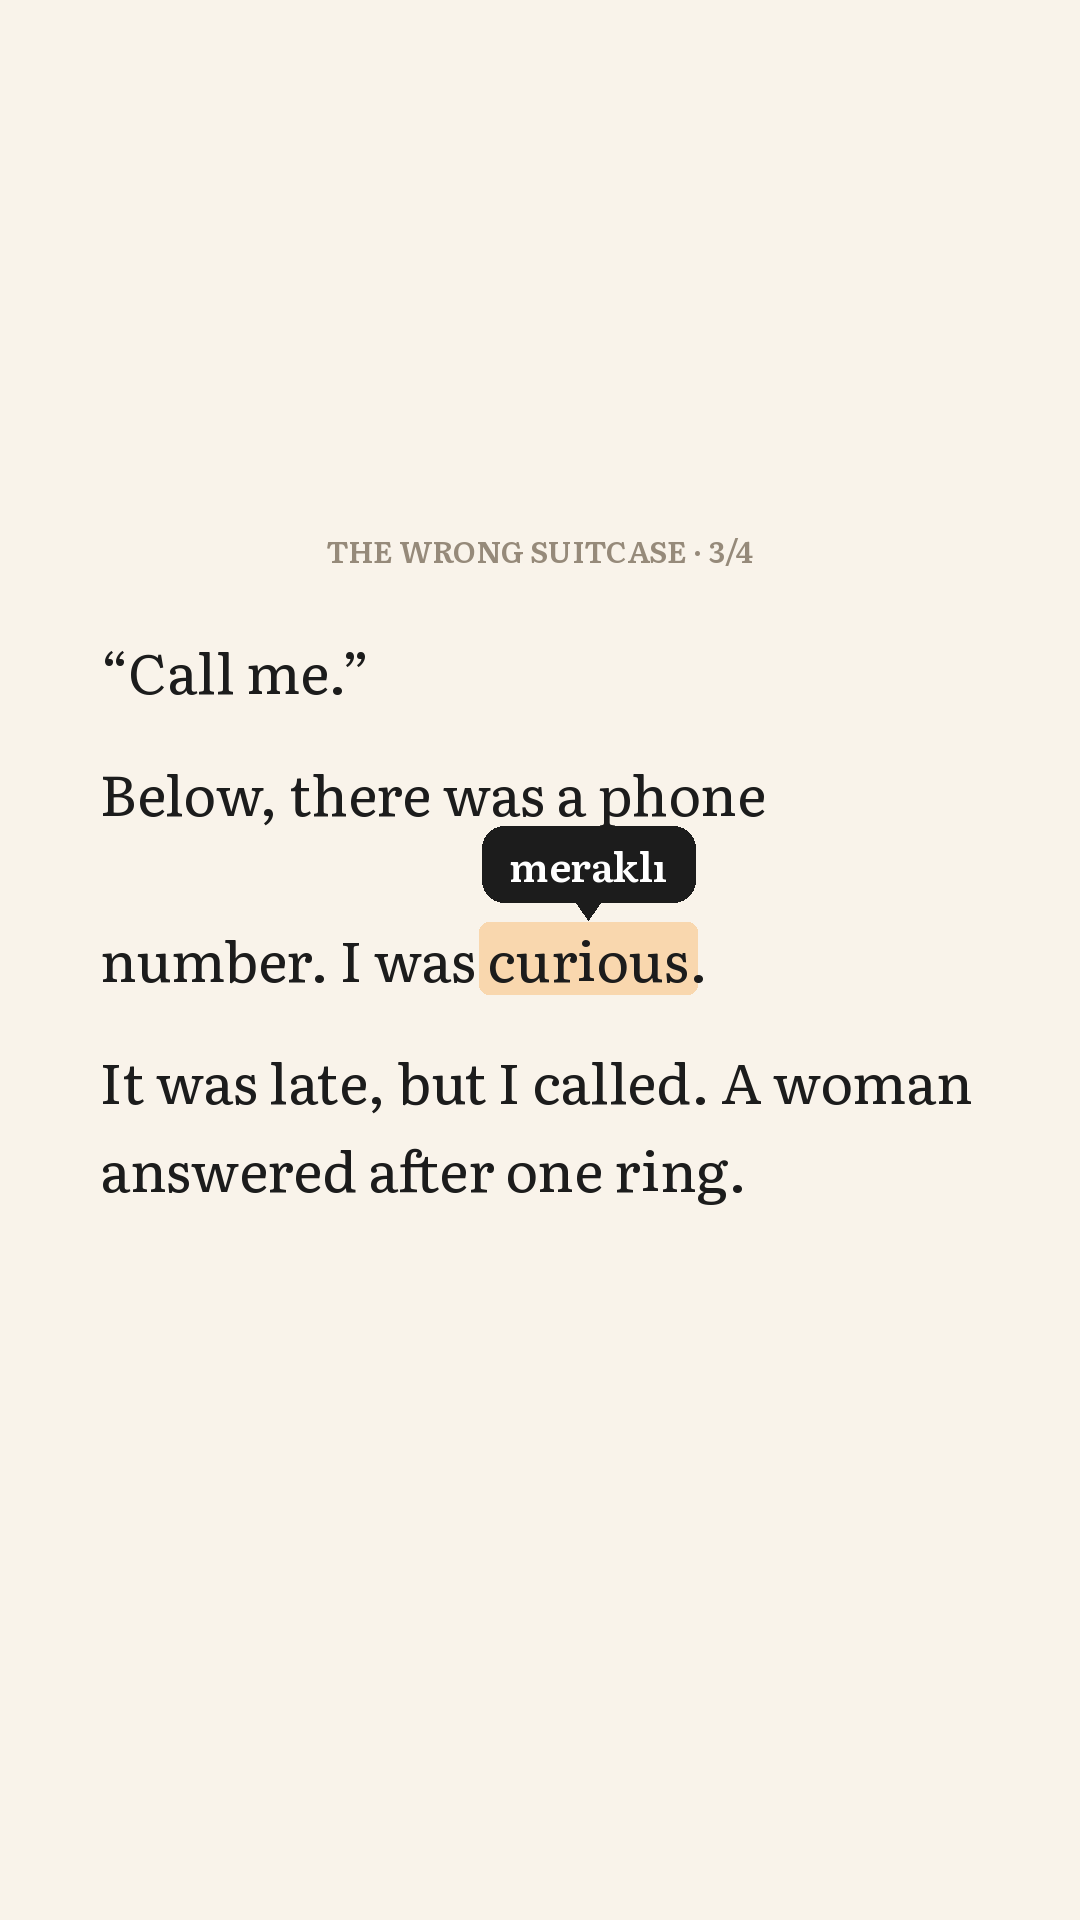
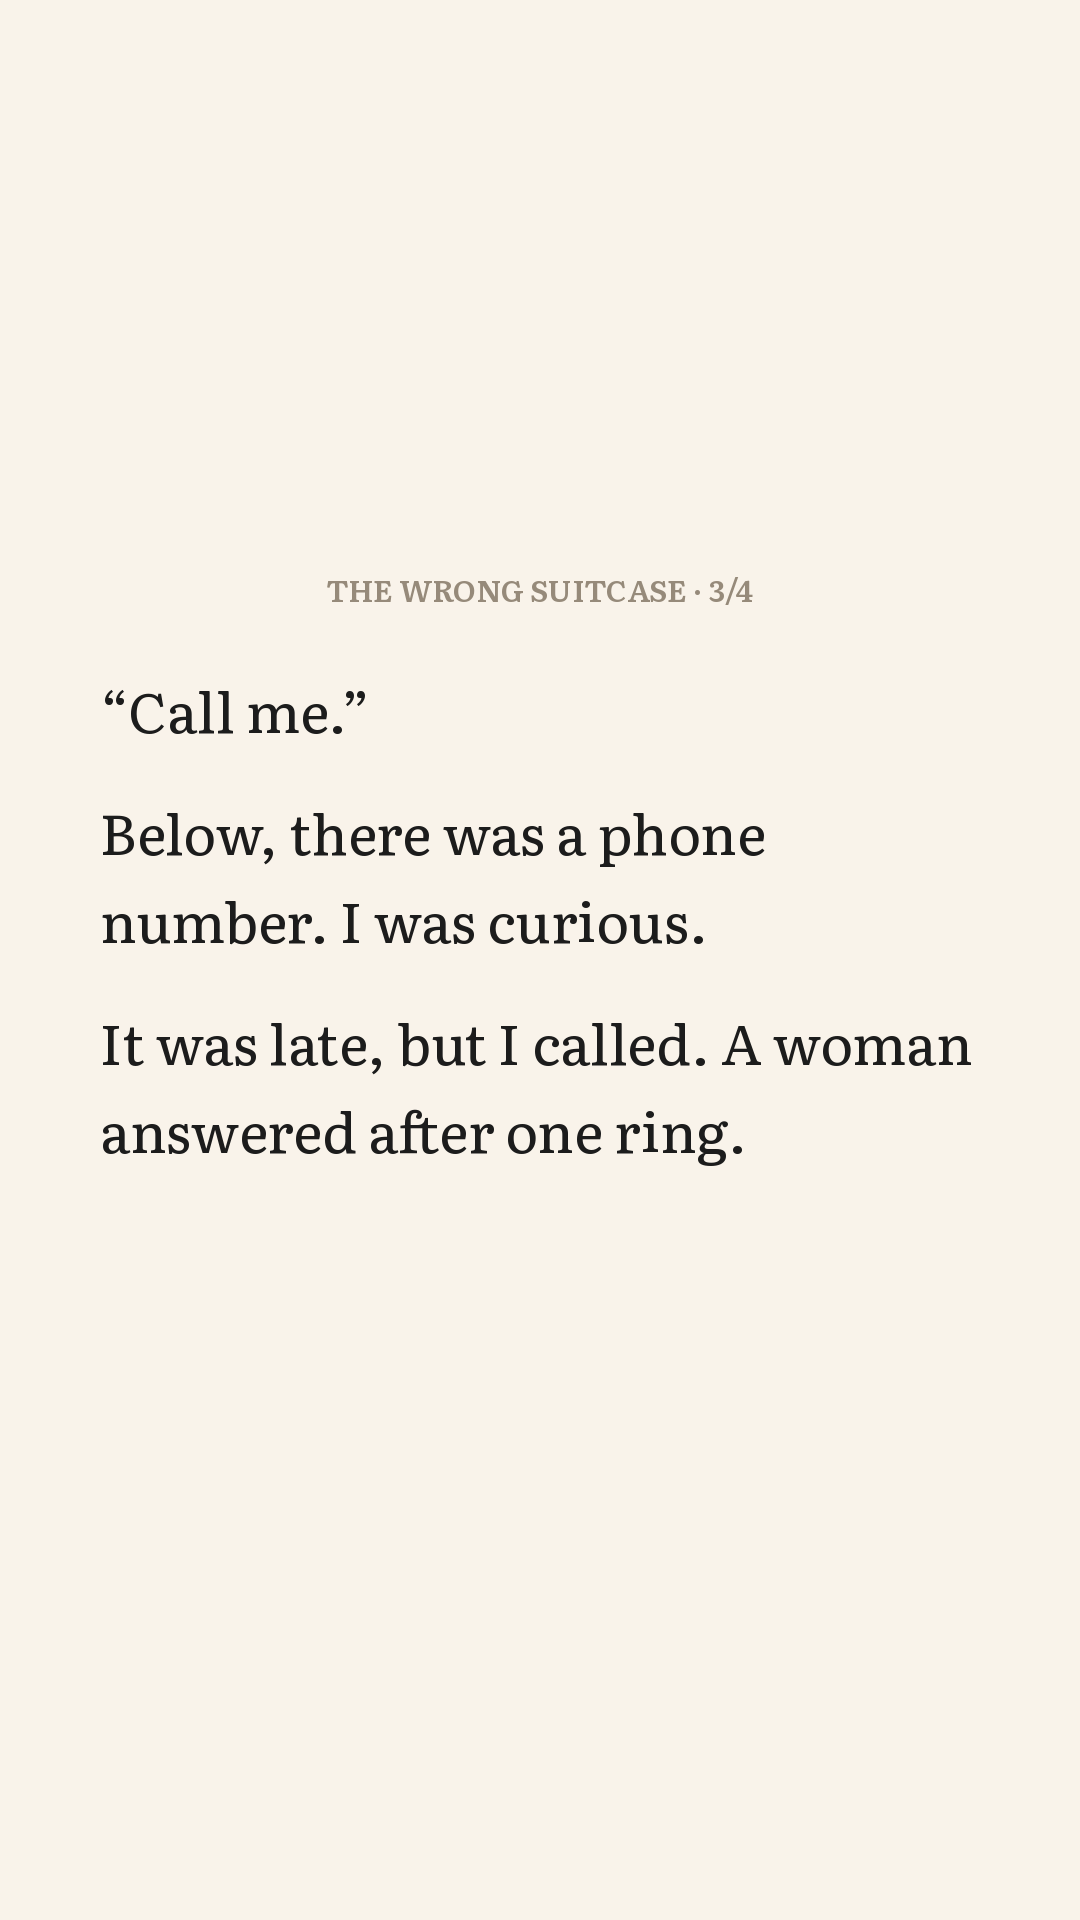
Wrong Suitcase v2: metinde balon yok, kelimeler ayrı karede
Claude-Session: https://claude.ai/code/session_019qtCGA3eorTyVVpn2iHJeU

Changed region(s): [[0.0917, 0.3438, 0.9167, 0.625], [0.3056, 0.2812, 0.7028, 0.3125]]

diff --git a/icerik/2026-11-16_hikaye_wrong-suitcase/yap.py b/icerik/2026-11-16_hikaye_wrong-suitcase/yap.py
@@ -23,12 +23,12 @@ def kare(n,ust,metin,kelime,anlam,hook=None,alt=None,off=None):
     x0=100; step=88
     for para in metin.split('\n'):
         for ln in wrap(d,para,fp,W-2*x0):
-            has=any(kelime in w for w in ln)
+            has=bool(kelime) and any(kelime in w for w in ln)
             if has: y+=78
             x=x0
             for w in ln:
                 ww=d.textlength(w,font=fp)
-                if kelime in w:
+                if kelime and kelime in w:
                     px=d.textlength(w[:w.index(kelime)],font=fp); x+=px; kw=d.textlength(kelime,font=fp); d.rounded_rectangle((x-8,y+4,x+kw+8,y+76),10,fill=PEACH)
                     bw=d.textlength(anlam,font=fb)+56; cx=x+kw/2; bx=min(max(cx-bw/2,60),W-60-bw)
                     d.rounded_rectangle((bx,y-92,bx+bw,y-16),22,fill=INK); d.polygon([(cx-14,y-18),(cx+14,y-18),(cx,y+2)],fill=INK)
@@ -39,14 +39,21 @@ def kare(n,ust,metin,kelime,anlam,hook=None,alt=None,off=None):
     if alt: d.text((W/2,y+50),alt,font=font(40,600),fill=ORANGE,anchor='mm')
     assert y<1620,(n,y); im.save(f'hikaye_{n}.png'); return y
 T='THE WRONG SUITCASE'
-kare(1,T+' · 1/4','I got home from the airport at midnight. I was exhausted.\nI opened my suitcase to find my pajamas.\nBut these were not my clothes.','exhausted','bitkin',hook='Bu hikâyeyi sözlüksüz|bitirebilen var mı?')
-kare(2,T+' · 2/4','Inside, there was a blue dress, a camera, and an old notebook.\nOn the first page, someone wrote:\n“If you find this, please don’t call the airline.”','airline','havayolu şirketi')
-kare(3,T+' · 3/4','“Call me.”\nBelow, there was a phone number. I was curious.\nIt was late, but I called. A woman answered after one ring.','curious','meraklı')
-kare(4,T+' · 4/4','“Finally,” she said. “I have your suitcase too. And I opened it.”\n“We need to talk about the letter in your bag.”\nI didn’t have a letter in my bag.','Finally','nihayet')
+kare(1,T+' · 1/4','I got home from the airport at midnight. I was exhausted.\nI opened my suitcase to find my pajamas.\nBut these were not my clothes.',None,None,hook='Bu hikâyeyi sözlüksüz|bitirebilen var mı?')
+kare(2,T+' · 2/4','Inside, there was a blue dress, a camera, and an old notebook.\nOn the first page, someone wrote:\n“If you find this, please don’t call the airline.”',None,None)
+kare(3,T+' · 3/4','“Call me.”\nBelow, there was a phone number. I was curious.\nIt was late, but I called. A woman answered after one ring.',None,None)
+kare(4,T+' · 4/4','“Finally,” she said. “I have your suitcase too. And I opened it.”\n“We need to talk about the letter in your bag.”\nI didn’t have a letter in my bag.',None,None)
+im=Image.new('RGB',(W,H),BG); d=ImageDraw.Draw(im); fp=font(60); fb=font(40,600)
+d.text((W/2,470),'Takıldığın kelime',font=font(60,700),fill=INK,anchor='mm'); d.text((W/2,555),'bunlardan biri miydi?',font=font(60,700),fill=INK,anchor='mm')
+for j,(k,a) in enumerate([('exhausted','bitkin'),('airline','havayolu şirketi'),('curious','meraklı'),('finally','nihayet')]):
+    y=790+j*210; kw=d.textlength(k,font=fp); x=W/2-kw/2; d.rounded_rectangle((x-10,y+2,x+kw+10,y+80),10,fill=PEACH)
+    bw=d.textlength(a,font=fb)+56; d.rounded_rectangle((W/2-bw/2,y-92,W/2+bw/2,y-16),22,fill=INK); d.polygon([(W/2-14,y-18),(W/2+14,y-18),(W/2,y+2)],fill=INK)
+    d.text((W/2,y-54),a,font=fb,fill=(255,255,255),anchor='mm'); d.text((W/2,y+42),k,font=fp,fill=INK,anchor='mm')
+im.save('hikaye_5.png')
 im=Image.new('RGB',(W,H),BG); d=ImageDraw.Draw(im)
 for i,(t,sz,w,c) in enumerate([('Mektup kimin?',76,700,INK),('Hikâyenin sonu yarın burada.',46,400,INK),('',10,400,INK),('Beklemek istemeyenlere:',40,400,GREY),('böyle hikâyeler her gün',46,600,INK),('Daily English’te 🧡'.replace(' 🧡',''),60,700,ORANGE)]):
     d.text((W/2,640+i*110),t,font=font(sz,w),fill=c,anchor='mm')
-im.save('hikaye_5.png')
-s=Image.new('RGB',(5*270,480),BG)
-for i in range(5): s.paste(Image.open(f'hikaye_{i+1}.png').resize((270,480)),(i*270,0))
+im.save('hikaye_6.png')
+s=Image.new('RGB',(6*270,480),BG)
+for i in range(6): s.paste(Image.open(f'hikaye_{i+1}.png').resize((270,480)),(i*270,0))
 s.save('sheet.jpg',quality=85)

diff --git a/icerik/2026-11-16_hikaye_wrong-suitcase/PAKET.md b/icerik/2026-11-16_hikaye_wrong-suitcase/PAKET.md
@@ -1,6 +1,6 @@
 # Hikâye serisi 1: "The Wrong Suitcase" (Sözlüksüz bitir meydan okuması) · 15 Kas 2026
 Mehmet: "hikâyeyi sen oluştur, ekrana yerleştir, her şeyi tasarla." Amaç: uygulamayı anlatmadan deneyimi IG hikâyesinde yaşatmak (anlam balonu = uygulamadaki kelimeye dokunma). Uygulama ekranı taklit edilmedi; hesabın kendi görünümü.
-Kareler: hikaye_1–5.png (1080×1920). Kare 4'e Mehmet anket çıkartması ekler ("Bitirdim 💯 / Takıldım"), kare 5'e App Store link çıkartması.
+Kareler: hikaye_1–6.png (1080×1920). v2 (Mehmet itirazı: anlam ekranda verilirse "sözlüksüz" meydan okuması olmaz): 1–4 temiz metin, balon yok; kare 4 anket ("Bitirdim 💯 / Takıldım"); kare 5 "Takıldığın kelime bunlardan biri miydi?" + 4 kelime balonlu (ödül anı); kare 6 kapanış + App Store link çıkartması.
 Metin (A2–B1): I got home from the airport at midnight. I was exhausted. I opened my suitcase to find my pajamas. But these were not my clothes. / Inside, there was a blue dress, a camera, and an old notebook. On the first page, someone wrote: “If you find this, please don’t call the airline.” / “Call me.” Below, there was a phone number. I was curious. It was late, but I called. A woman answered after one ring. / “Finally,” she said. “I have your suitcase too. And I opened it.” “We need to talk about the letter in your bag.” I didn’t have a letter in my bag.
 SON (ertesi gün hikâyede; uygulamaya eklenirse kare 5 "Sonu uygulamada" olur): “It’s my letter,” she said. “I wrote it to my sister ten years ago. I never sent it. At the airport, I put it in the wrong suitcase. Yours.” She was quiet for a moment. “Maybe it’s a sign. Can you send it for me?” The next morning, I did.
 Kelimeler: exhausted = bitkin · airline = havayolu şirketi · curious = meraklı · finally = nihayet
